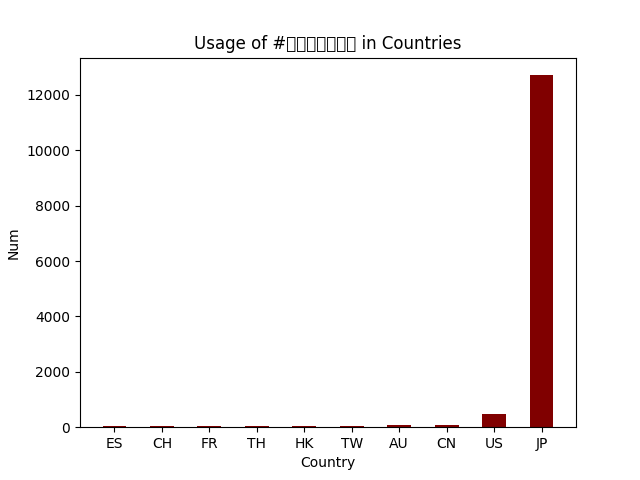
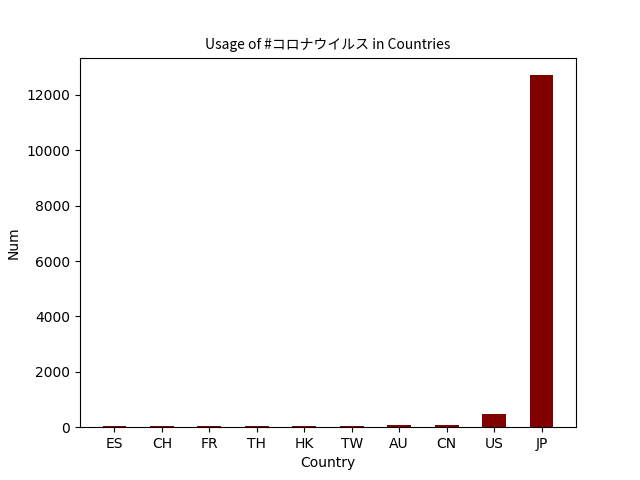
TESTING

Changed region(s): [[0.3125, 0.0625, 0.7188, 0.125]]

diff --git a/src/visualize.py b/src/visualize.py
@@ -17,21 +17,14 @@ import json
 from collections import Counter,defaultdict
 import matplotlib.pyplot as plt
 from matplotlib.font_manager import FontProperties
-import matplotlib.font_manager as fm
-from matplotlib import font_manager
-font_manager._rebuild()
-
-font_manager = fm.FontManager()
-
 
 # matplotlib fonts
 
 font_paths = ['/home/Sophia.Huang.24/twitter_coronavirus/NotoSansTC-Regular.otf', '/home/Sophia.Huang.24/twitter_coronavirus/NotoSansKR-Regular.otf', '/home/Sophia.Huang.24/twitter_coronavirus/NotoSansJP-Regular.otf']
 
+properties = []
 for path in font_paths:
-    fm.fontManager.addfont(path)
-
-plt.rcParams['font.family'] = ['Noto Sans TC', 'Noto Sans KR', 'Noto Sans JP']
+    properties.append(FontProperties(fname=path))
 
 # open the input path
 with open(args.input_path) as f:
@@ -63,11 +56,30 @@ print("Value=", value)
 
 plt.bar(key, value, color = 'maroon', width = 0.5)
 
+
+# Checking Language
+
+if "コロナウイルス" in os.path.basename(args.key):
+    language = "Japanese"
+elif "冠状病毒" in os.path.basename(args.key):
+    language = "Chinese"
+elif "코로나바이러" in os.path.basename(args.key):
+    language = "Korean"
+else:
+    language = "English"
+
 # Depending on whether the input path is for countries or languages, decide what to name x axis and title of plot
 if args.input_path == "reduced.country":
     plt.xlabel("Country")
     plt.ylabel("Num")
-    plt.title("Usage of " + args.key + " in Countries")
+    if language == "English":
+        plt.title("Usage of " + args.key + " in Countries")
+    elif language == "Japanese":
+        plt.title("Usage of " + args.key + " in Countries", fontproperties=properties[2])
+    elif language == "Korean":
+        plt.title("Usage of " + args.key + " in Countries", fontproperties=properties[1])
+    else:
+        plt.title("Usage of " + args.key + " in Countries", fontproperties=properties[0])
 else:
     plt.xlabel("Language")
     plt.ylabel("Num")
